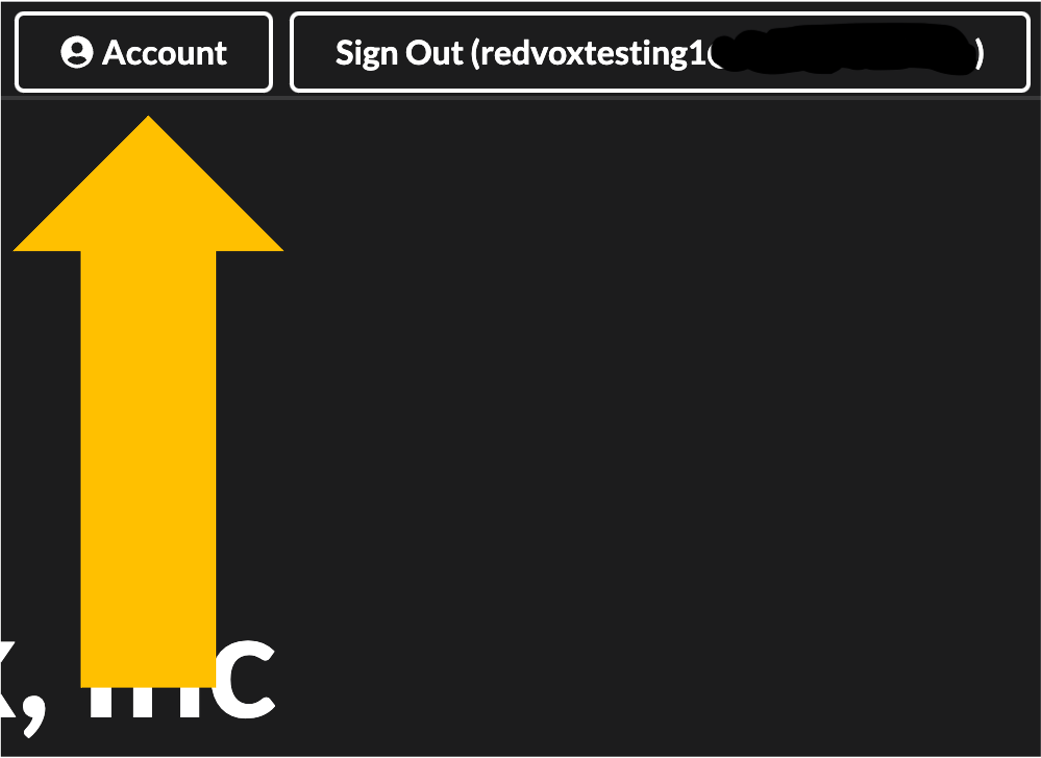
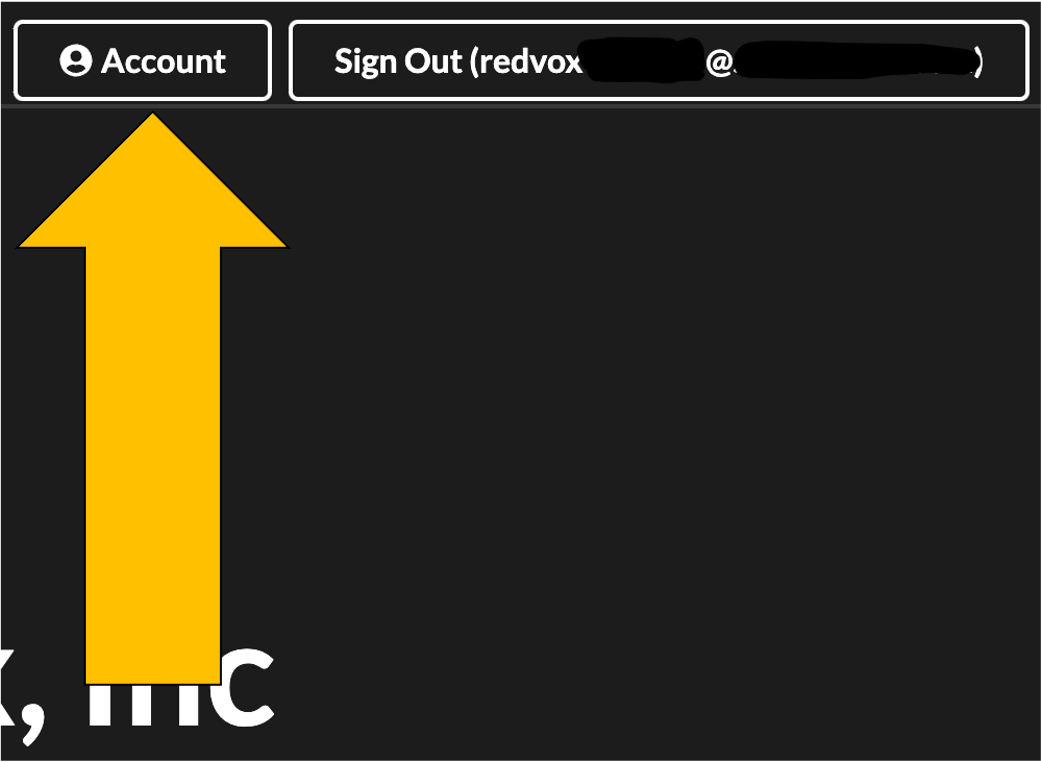
images updated to match new website functionality updated examples with new functionality fixed examples to better explain stuff

diff --git a/docs/source/02_dashboard.md b/docs/source/02_dashboard.md
@@ -30,6 +30,9 @@ the before and after sections.  The default amount of time to add is 5 minutes a
 Absolute time requires both the start and end times of the segment to be entered.  The default end time is 5 minutes 
 after the start time.  The start time defaults to 5 minutes before the current time.
 
+* _Be patient when changing the time values.  The website may require a moment to update the station list for your time
+window._
+
 ## Source Location Selection 
 
 ![](../img/dashboard_loc.png)
@@ -51,8 +54,8 @@ will do nothing if your browser cannot access your location data.
 
 ![](../img/source_loc_filter.png)
 
-You can edit the source location by clicking on the bullseye icon in the search box.  Radius is in meters and refers to 
-the area around the source location to select stations from.  Click `Apply` to set the location.
+You can edit the source location by clicking on the target icon in the search box.  Radius is in kilometers and allows 
+you to filter only stations that appear in that radius from the source location.  Click `Apply` to set the location.
 
 ## Station Selection
 
@@ -65,22 +68,34 @@ There are a few ways to select stations:
 
 ![](../img/station_select.png)
 
-The first is to select a station by clicking on the checkbox to the left of the station ID.
+The first is to select a station by clicking on the checkbox to the left of the station ID.  A selected station looks 
+like this:
+
+![](../img/selected_station.png)
 
 You may also use one of the two options under the map display.
 
 * `Station Select (Rectangular)`: Left-click and drag to create a rectangle.  All stations within the rectangle will be 
   selected.  If a station within the selection is already selected, it will be unselected.  We recommend clearing any
-  previous selection by clicking the minus sign in the checkbox on the left of the station selection widget.  If 
-  stations are selected, the top of the widget will look like this: ![](../img/stations_selected.png)
+  previous selection by clicking the minus sign in the checkbox on the left of the Stations widget (noted with an arrow 
+  in the image).  If stations are selected, the top of the widget will list how many are selected.
+  ![](../img/stations_selected.png)
 
 * `Station Select (Circular)`: Left-click and drag to create a circle.  All stations within the circle will be
   selected.  If a station within the selection is already selected, it will be unselected.  Refer to the previous entry 
   for precautions with previously selected stations.
 
+![](../img/stations_selected_map.png)
+
+* _Selected stations are marked on the map by a red dot in the center of the icon.  In this example, three stations are 
+  selected_
+
 ### Filtering Displayed Stations
 
 You have several options when filtering which stations to choose from.
+
+* _Note that filtering the displayed stations will not affect which stations are selected.  You may not see a selected
+  station in the display, but it will still be selected._
 
 ![](../img/stations_search.png)
 
@@ -127,9 +142,11 @@ choices one at a time until you are satisfied with the results._
 ![](../img/select_radius.png)
 
 The `Source Location Filter` box under the map allows you to left-click and drag to create a circle centered on the
-source location.  All stations within the circle will be selected if they previously were selected.  This option will 
-limit which stations are included in the final report or data download.  Stations selected but are outside the circle 
-will not be included.
+source location.  Any stations within the circle will appear in the station list.
+
+* _You can also perform this function by using the target icon in the station widget._
+
+* _You can still select any station using the map by clicking on an icon._
 
 ## Filter Profiles
 
@@ -138,7 +155,7 @@ will not be included.
 You can save the current filter profile by clicking on the disk icon.  Enter a descriptive name for the new profile, 
 then click the `Add Filter` button.
 
-You can load existing filter profiles by clicking on the dropdown icon.  Left click on the name of the profile you want
+You can load existing filter profiles by clicking on the dropdown icon.  Left-click on the name of the profile you want
 to load.  You can also remove profiles by clicking on the trashcan icon next to the name.
 
 ### Displaying Station Information
@@ -152,13 +169,29 @@ You have the option to change which information from each station is displayed t
 Click the three vertical lines to display the station column filters.  Select which column(s) you would like to be
 displayed when searching for stations.  The default options are displayed in the screenshot.
 
+### Changing the Dashboard Appearance
+
+![](../img/dashboard_middle.png)
+
+You can change the size of the map and search widgets by left-clicking and dragging the gray bar between the two 
+widgets.
+
+![](../img/dashboard_collapse.png)
+
+You can collapse and expand the search widgets by clicking on the double arrow icon in the upper left of the widget. 
+
 ## Generate Report
 
 ![](../img/generate_report.png)
 
 Click the `Generate Report for Selected` button to create a report for the selected data.  There is a progress bar 
 indicating how far along the process has gone.  Longer segments of data will take longer to process, so please be 
-patient.  Once the report has been generated, you can click on the link that appears to view the report.
+patient.  
+
+![](../img/report_made.png)
+
+Once the report has been generated, you can click on the link that appears in the green `Report Available` box to view 
+the report.
 
 More information about reports is available [here](03_report.md)
 

diff --git a/docs/source/03_report.md b/docs/source/03_report.md
@@ -2,6 +2,8 @@
 
 This tutorial covers the report search page and the report display page.
 
+## Report Search
+
 If you have not [signed in](01_account.md#log-into-your-account) yet, you will not be able to access this page.
 
 ![](../img/reports_page.png)
@@ -21,7 +23,7 @@ The star symbol next to the report link indicates if the report is featured.
 
 To view a report, click on the link.  The [report will open](#report-page) in a new browser tab.
 
-## Report Filters
+### Report Filters
 
 ![](../img/reports_search.png)
 
@@ -31,16 +33,18 @@ Type in the search bar to filter by title.  Only reports with the entered keywor
 
 Select `My Reports` to view only the reports you have made.
 
-Select `Shared` to view only the reports shared with your account.
+Select `Shared With Me` to view only the reports shared with your account.
+
+Select `Shared With Others` to view only the reports you have shared.
 
 Select `Featured` to view only the reports featured as signals of interest.
 
-# Report Page
+## Report Page
 
 The contents of a report are shown on this page.  You can access these pages without signing in if the report you are 
 accessing is set to public display.  If you are unable to access a report, try logging in first.  If you cannot access 
 a report and are logged in, check that the account you are using has access to the report.  As a last resort, contact 
-[RedVox support](mailto:support@redvox.io).
+[RedVox support](mailto:support@redvox.io) at `support@redvox.io`.
 
 ![](../img/report_display.png)
 
@@ -133,7 +137,7 @@ The Report Actions box will expand with more options described in the table belo
 |Extract Edge ML      |Retrieve the ML classifier data from the stations. |
 |Redo                 |Returns you to the dashboard to change the report parameters.  Will create a new report. |
 |Cancel               |Cancels any edits and returns you to the display view. |
-|Delete               |Permanently removes the report. |
+|Delete               |Permanently removes the report.  A prompt will appear asking you to confirm deletion.  Click `Delete Report` to delete the report.  You will be returned to the report search page. |
 
 * _When creating spectrograms or running ML classifications, a message will appear prompting you to wait for the process
 to finish.  If the report page does not update, refresh it._

diff --git a/docs/source/01_account.md b/docs/source/01_account.md
@@ -40,7 +40,7 @@ Click the `Sign Out` button in the upper right.
 ![](../img/sign_out_btn.png)
 
 _Please note that email addresses in our example screenshots will be partially censored for security purposes.  Your
-screens will have the full email address associated with your account displayed._
+screen will have the full email address associated with your account displayed._
 
 ## Account
 
@@ -63,4 +63,5 @@ instructions will be sent to the email address you entered and the page will upd
 
 ## Troubleshooting
 
-For any issue not covered in this tutorial, contact [RedVox support](mailto:support@redvox.io) for assistance.
+For any issue not covered in this tutorial, contact [RedVox support](mailto:support@redvox.io) at `support@redvox.io` 
+for assistance.

diff --git a/docs/source/troubleshooting.md b/docs/source/troubleshooting.md
@@ -2,6 +2,6 @@
 
 Refer to this page for common fixes to problems using the website.
 
-## If All Else Fails
+## Contact Support
 
-Contact [RedVox support](mailto:support@redvox.io).
+Contact [RedVox support](mailto:support@redvox.io) at `support@redvox.io`.
